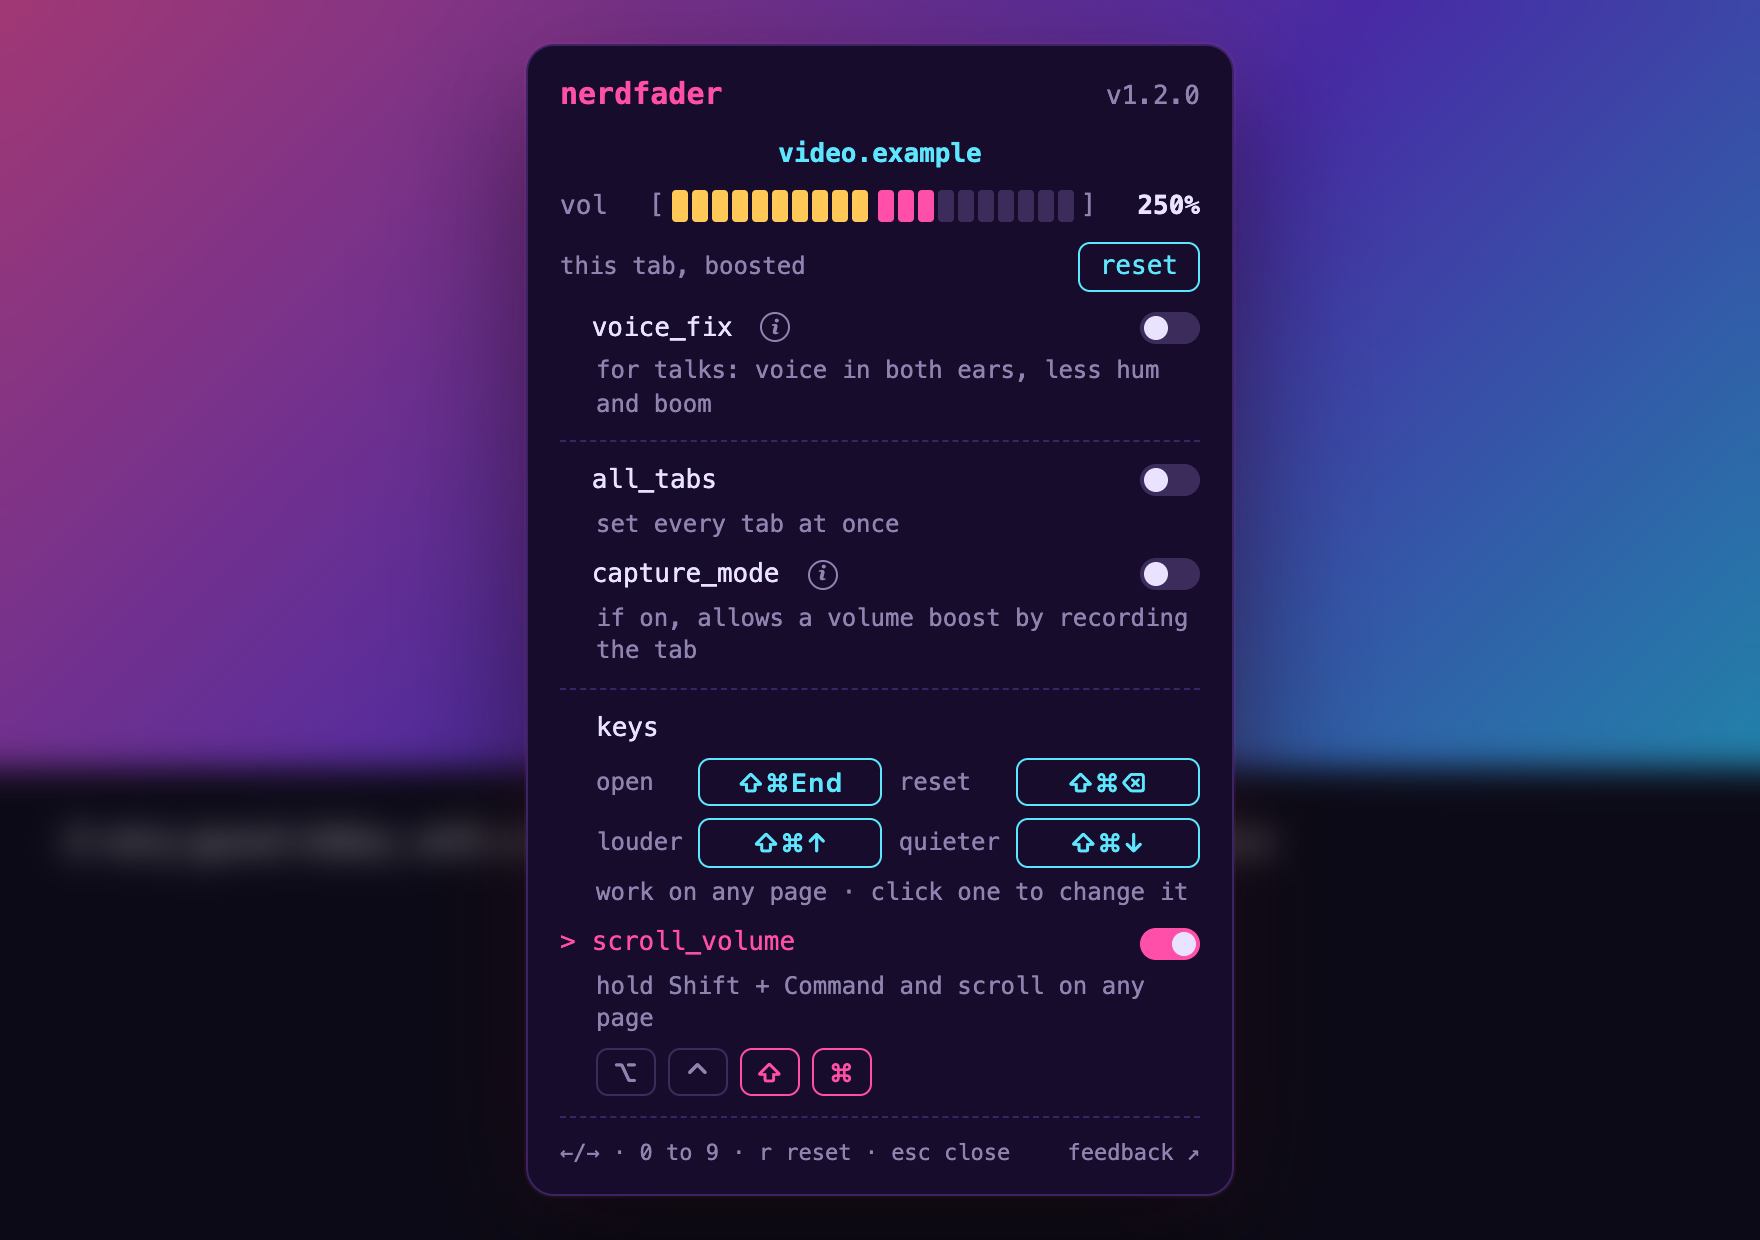
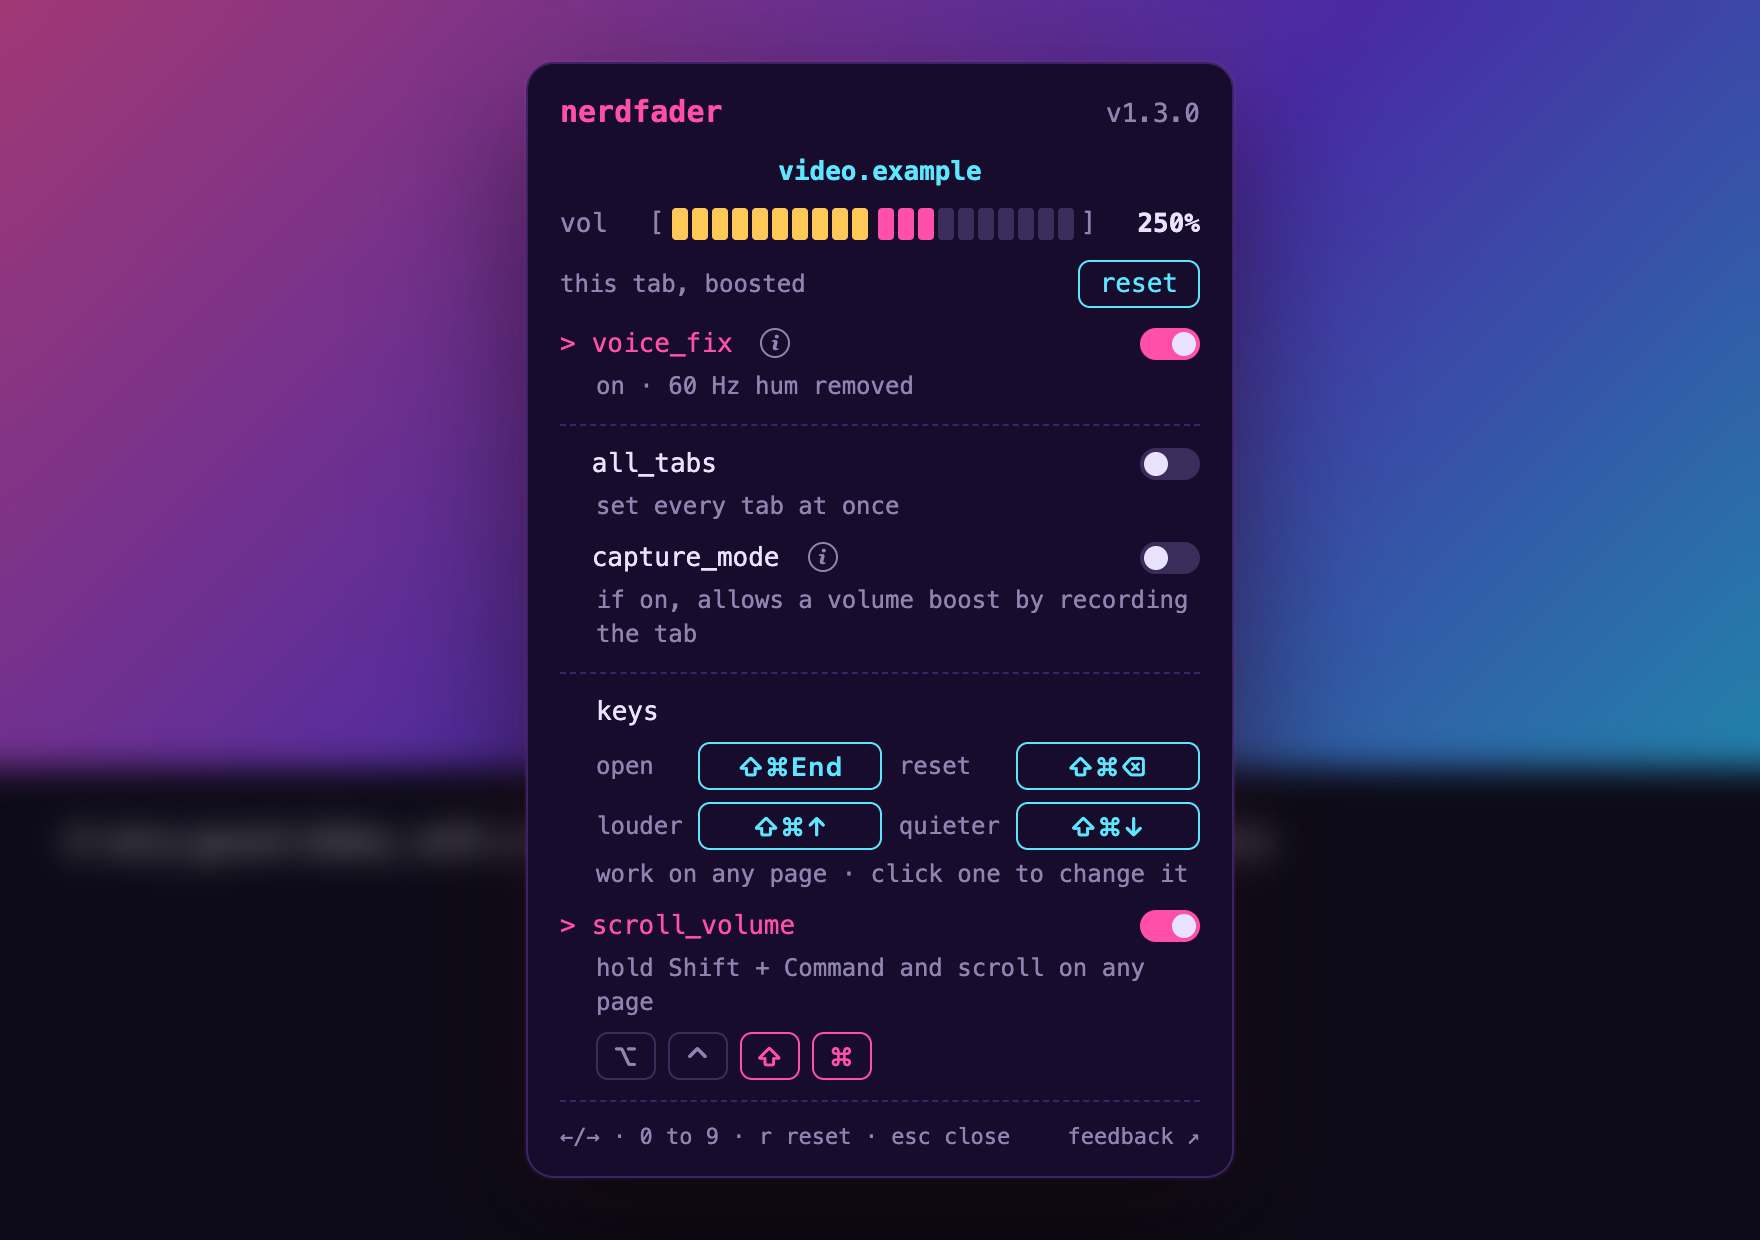
README: voice_fix in the intro and tests; screenshot with voice_fix on

diff --git a/tests/extension.test.js b/tests/extension.test.js
@@ -551,11 +551,15 @@ test("the toolbar icon opens a dialog in the page that changes the tab, and clos
     await demo.goto(demoOrigin + "/demo");
     const demoId = await tabIdOf(demoOrigin);
     await send({ type: "setTab", tabId: demoId, percent: 250 });
+    // voice_fix on, as it looks once it has found hum.
+    await send({ type: "setVoice", tabId: demoId, on: true });
+    await sw.evaluate((tabId) => chrome.storage.session.set({ [`hum:${tabId}`]: { 0: "60" } }), demoId);
     await openDialog(demo, demoId);
     await demo.evaluate(() => document.activeElement?.blur());
     await wait(300);
     await demo.screenshot({ path: process.env.SCREENSHOT });
     await send({ type: "setTab", tabId: demoId, percent: 100 });
+    await send({ type: "setVoice", tabId: demoId, on: false });
     await demo.close();
   }
 });

diff --git a/README.md b/README.md
@@ -8,7 +8,8 @@ Nerdfader is a small, free, open-source browser extension for Arc, Chrome and ot
 icon (or press ⌘⇧End), and a small dialog opens in the middle of the page over a blurred backdrop. Drag the slider,
 and that tab gets quieter (or louder). Click anywhere outside it, press Esc, or click the icon again to close it.
 Most sites are boosted from inside the page, with no "this tab is being shared" highlight; capture mode is only
-used, with your OK, for the few sites that block that.
+used, with your OK, for the few sites that block that. For a badly recorded talk, **voice_fix** puts the voice in
+both ears and takes out mains hum and boom.
 
 Made for the [Nerdative](https://www.youtube.com/@nerdative) channel on YouTube, by the same person as
 [Nerdwave](https://github.com/grumpitect/nerdwave).
@@ -173,9 +174,9 @@ npm run test:real      # the same in your installed Google Chrome, the way a per
 ```
 
 `test:real` starts Google Chrome with a throwaway profile and drives it over its debugging protocol, which can load
-the extension and click its toolbar icon for real. It installs 1.0.0 and updates it over open tabs, reloads it while
-tabs play, opens the dialog, uses the keys and modifier + scroll, runs capture mode under Chrome's real "only after
-you clicked it on this tab" rule, plays a DRM (ClearKey) stream, and visits YouTube, Vimeo, Facebook and Twitch,
+the extension and click its toolbar icon for real. It installs 1.0.0 and 1.2.0 and updates them over open tabs
+(voice_fix included, on a tab 1.2.0 was boosting), reloads it while tabs play, opens the dialog, uses the keys and modifier + scroll, runs capture mode under Chrome's real "only after
+you clicked it on this tab" rule, plays a DRM (ClearKey) stream, and visits YouTube (boosting it, turning voice_fix on, and moving to the next video), Vimeo, Facebook and Twitch,
 failing on anything that shows up under Errors in chrome://extensions. It runs twice: once letting pages play sound
 freely (most tests need that), and once with the browser's normal autoplay rule, to check nothing warns before
 you've clicked a page. Its audio output is off and it runs headless, so it's silent and never shows a window. Set
